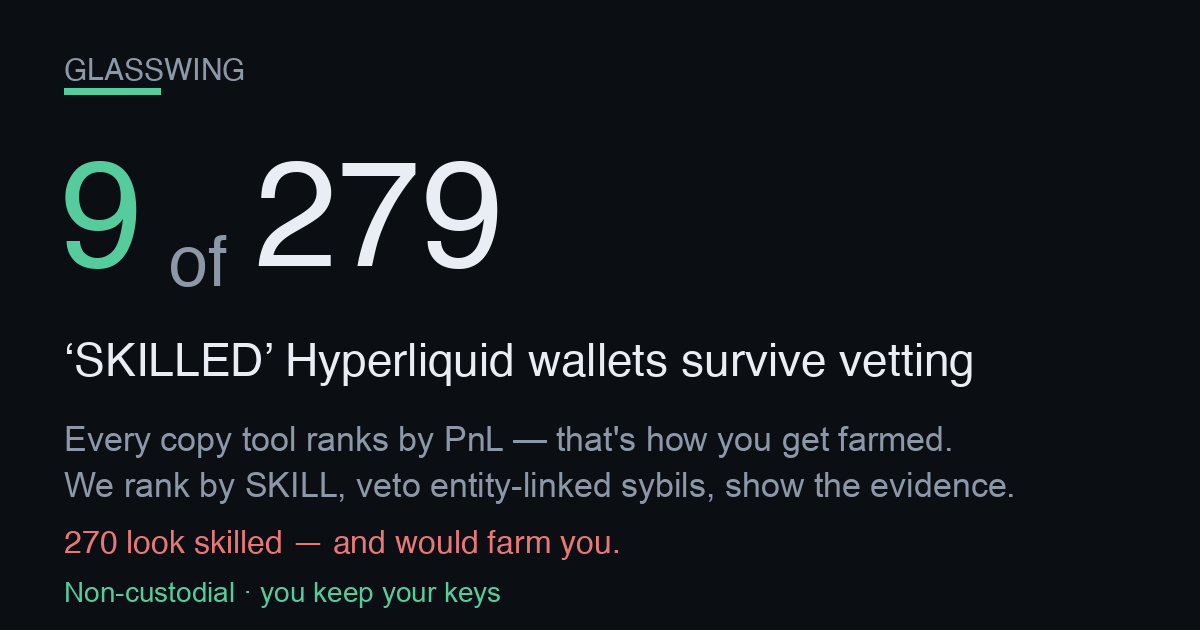
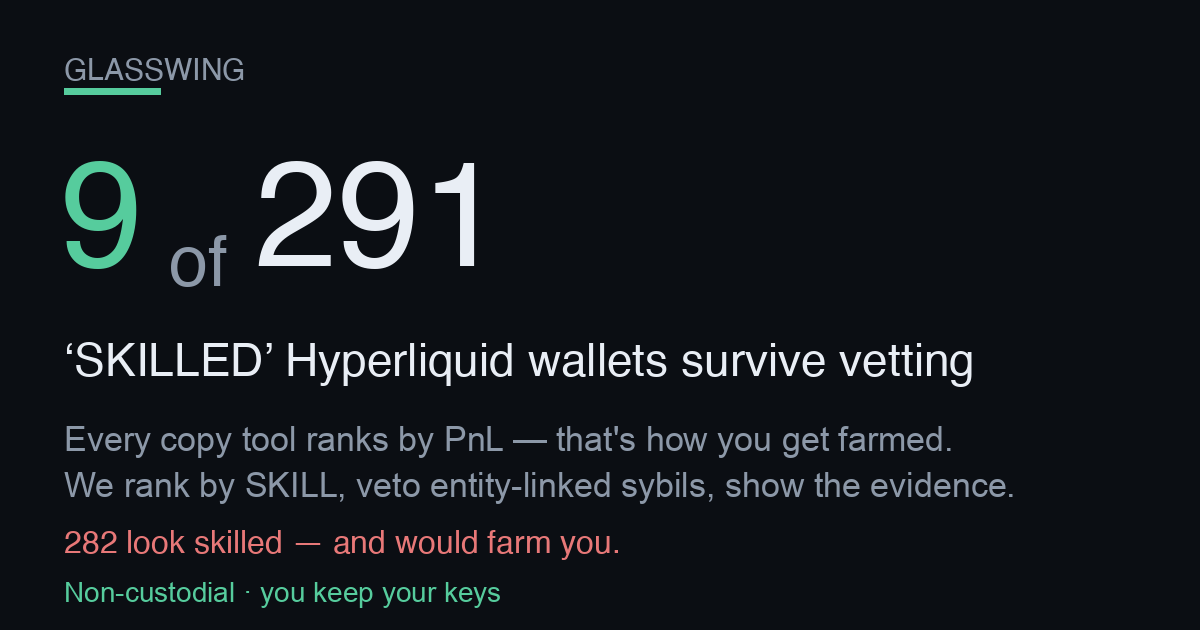
publish funnel 2026-08-25T18:08:58Z

Changed region(s): [[0.2775, 0.2413, 0.4317, 0.4524], [0.0617, 0.8444, 0.0925, 0.8746]]

diff --git a/screener.html b/screener.html
@@ -57,4 +57,4 @@ padding:11px 22px;font-size:15px;font-weight:800;border:1px solid var(--good)}
 footer{margin-top:34px;color:var(--muted);font-size:12px;line-height:1.6;
 border-top:1px solid var(--line);padding-top:16px}
 footer b{color:var(--ink)}
-</style></head><body><div class="wrap"><div class="nav"><a href="./index.html">&larr; Glasswing home</a><span class="sep">|</span><span>Edge Screener</span><span class="sep">|</span><a href="./dex.html">Copy a vetted leader</a></div><div class="hero"><h1>Hyperliquid Edge Screener</h1><div class="sub">Where&rsquo;s the carry, where a maker earns, and what&rsquo;s moving on Hyperliquid &mdash; live, computed from the public API. Bookmark it. Every number below is real and timestamped.</div><div class="stamp">Data as of <b>2026-08-23T22:45:18Z</b> &middot; rendered 2026-08-23T22:45:18Z &middot; 177 perps &middot; 101 HIP-3 (xyz) markets scanned</div></div><h2>Top funding &mdash; the carry table <span class="hint">perps ranked by annualized funding. Positive = longs pay shorts (a delta-neutral short earns it).</span></h2><div class="tblwrap"><table><thead><tr><th>Coin</th><th>Funding / hr</th><th>Annualized</th><th>Who pays</th><th>Open interest</th><th>24h volume</th></tr></thead><tbody><tr><td class="coin">ACE</td><td>-0.1377%</td><td class="neg">-1206.6%</td><td><span class="tag shorts">shorts pay</span></td><td>$1.9M</td><td>$1.8M</td></tr><tr><td class="coin">CASHCAT</td><td>+0.0459%</td><td class="pos">+402.1%</td><td><span class="tag longs">longs pay</span></td><td>$18.7M</td><td>$10.9M</td></tr><tr><td class="coin">MOVE<span class="tag thin" title="Low liquidity/OI &mdash; ADL &amp; liquidation risk; funding can flip">&#9888; thin</span></td><td>-0.0426%</td><td class="neg">-372.9%</td><td><span class="tag shorts">shorts pay</span></td><td>$295K</td><td>$848K</td></tr><tr><td class="coin">APEX</td><td>+0.0379%</td><td class="pos">+332.3%</td><td><span class="tag longs">longs pay</span></td><td>$2.6M</td><td>$1.2M</td></tr><tr><td class="coin">PEOPLE</td><td>+0.0295%</td><td class="pos">+258.5%</td><td><span class="tag longs">longs pay</span></td><td>$4.1M</td><td>$337K</td></tr><tr><td class="coin">VINE<span class="tag thin" title="Low liquidity/OI &mdash; ADL &amp; liquidation risk; funding can flip">&#9888; thin</span></td><td>+0.0192%</td><td class="pos">+167.8%</td><td><span class="tag longs">longs pay</span></td><td>$322K</td><td>$61K</td></tr><tr><td class="coin">VVV</td><td>+0.0184%</td><td class="pos">+161.5%</td><td><span class="tag longs">longs pay</span></td><td>$27.9M</td><td>$11.6M</td></tr><tr><td class="coin">CFX</td><td>+0.0153%</td><td class="pos">+134.0%</td><td><span class="tag longs">longs pay</span></td><td>$2.4M</td><td>$459K</td></tr><tr><td class="coin">PUMP</td><td>+0.0141%</td><td class="pos">+123.4%</td><td><span class="tag longs">longs pay</span></td><td>$206.3M</td><td>$222.6M</td></tr><tr><td class="coin">GRASS</td><td>+0.0136%</td><td class="pos">+119.0%</td><td><span class="tag longs">longs pay</span></td><td>$10.0M</td><td>$3.3M</td></tr><tr><td class="coin">kLUNC<span class="tag thin" title="Low liquidity/OI &mdash; ADL &amp; liquidation risk; funding can flip">&#9888; thin</span></td><td>+0.0134%</td><td class="pos">+117.1%</td><td><span class="tag longs">longs pay</span></td><td>$391K</td><td>$161K</td></tr><tr><td class="coin">PNUT</td><td>+0.0132%</td><td class="pos">+115.9%</td><td><span class="tag longs">longs pay</span></td><td>$1.0M</td><td>$400K</td></tr></tbody></table></div><h2>Widest HIP-3 spreads &mdash; where a maker earns <span class="hint">xyz: markets by impact-price spread vs the ~0.6bps round-trip fee. A resting limit order captures the gap.</span></h2><div class="tblwrap"><table><thead><tr><th>Market</th><th>Spread</th><th>vs 0.6bps fee</th><th>Mid</th><th>24h volume</th></tr></thead><tbody><tr><td class="coin">xyz:NCLD<span class="tag gm">growth</span></td><td>264.3 bps</td><td class="pos">+263.7 bps</td><td>23.8970</td><td>$151K</td></tr><tr><td class="coin">xyz:MAGS<span class="tag gm">growth</span></td><td>191.3 bps</td><td class="pos">+190.7 bps</td><td>67.0020</td><td>$35K</td></tr><tr><td class="coin">xyz:BIRD<span class="tag gm">growth</span></td><td>189.6 bps</td><td class="pos">+189.0 bps</td><td>2.3904</td><td>$14K</td></tr><tr><td class="coin">xyz:GIGADEV<span class="tag gm">growth</span></td><td>136.9 bps</td><td class="pos">+136.3 bps</td><td>61.6215</td><td>$31K</td></tr><tr><td class="coin">xyz:NET<span class="tag gm">growth</span></td><td>123.2 bps</td><td class="pos">+122.6 bps</td><td>295.8800</td><td>$7K</td></tr><tr><td class="coin">xyz:RDDT<span class="tag gm">growth</span></td><td>119.5 bps</td><td class="pos">+118.9 bps</td><td>153.5450</td><td>$14K</td></tr><tr><td class="coin">xyz:IREN<span class="tag gm">growth</span></td><td>97.2 bps</td><td class="pos">+96.6 bps</td><td>41.3940</td><td>$99K</td></tr><tr><td class="coin">xyz:URNM<span class="tag gm">growth</span></td><td>89.5 bps</td><td class="pos">+88.9 bps</td><td>59.6840</td><td>$39K</td></tr><tr><td class="coin">xyz:GEV<span class="tag gm">growth</span></td><td>77.4 bps</td><td class="pos">+76.8 bps</td><td>963.5850</td><td>$18K</td></tr><tr><td class="coin">xyz:GME<span class="tag gm">growth</span></td><td>76.9 bps</td><td class="pos">+76.3 bps</td><td>18.3790</td><td>$49K</td></tr><tr><td class="coin">xyz:LYTE<span class="tag gm">growth</span></td><td>74.6 bps</td><td class="pos">+74.0 bps</td><td>24.7440</td><td>$264K</td></tr><tr><td class="coin">xyz:ZM<span class="tag gm">growth</span></td><td>68.9 bps</td><td class="pos">+68.3 bps</td><td>109.1200</td><td>$27K</td></tr></tbody></table></div><h2>Momentum &amp; volume &mdash; what&rsquo;s moving <span class="hint">perps by 24h volume with the 24h price change (mark vs prior-day).</span></h2><div class="tblwrap"><table><thead><tr><th>Coin</th><th>24h volume</th><th>24h change</th><th>Mark</th></tr></thead><tbody><tr><td class="coin">BTC</td><td>$2.40B</td><td class="pos">+0.76%</td><td>77,700.00</td></tr><tr><td class="coin">ETH</td><td>$1.57B</td><td class="pos">+1.85%</td><td>2,459.70</td></tr><tr><td class="coin">HYPE</td><td>$722.8M</td><td class="pos">+4.68%</td><td>82.8530</td></tr><tr><td class="coin">ZEC</td><td>$431.1M</td><td class="pos">+6.81%</td><td>856.3400</td></tr><tr><td class="coin">XRP</td><td>$370.7M</td><td class="pos">+3.41%</td><td>1.5191</td></tr><tr><td class="coin">SOL</td><td>$338.6M</td><td class="pos">+1.89%</td><td>95.5820</td></tr><tr><td class="coin">PUMP</td><td>$222.6M</td><td class="pos">+6.47%</td><td>0.005368</td></tr><tr><td class="coin">ENA</td><td>$81.7M</td><td class="pos">+2.53%</td><td>0.1635</td></tr><tr><td class="coin">TRUMP</td><td>$77.7M</td><td class="pos">+15.52%</td><td>2.6946</td></tr><tr><td class="coin">LIT</td><td>$55.3M</td><td class="pos">+8.02%</td><td>3.4273</td></tr><tr><td class="coin">NEAR</td><td>$54.6M</td><td class="pos">+4.47%</td><td>2.0057</td></tr><tr><td class="coin">FARTCOIN</td><td>$45.0M</td><td class="neg">-1.01%</td><td>0.18018</td></tr></tbody></table></div><div class="cta"><h2>These are the opportunities. Now copy the people who trade them.</h2><p class="lead">Spotting the carry and the spreads is the easy part &mdash; sizing, timing and risk are where most traders bleed. Copy the <b>skill-vetted</b> Hyperliquid leaders who actually trade these edges. Non-custodial: <b>you keep your keys and your funds</b> the entire time.</p><div class="row"><a class="btn" href="./index.html">See the vetted leaders &rarr;</a><a class="btn ghost" href="./dex.html">Start copying (non-custodial) &rarr;</a></div><div class="nc"><b>Non-custodial &amp; honest:</b> we never hold your keys or funds. Copying routes through a <b>0.01%</b> (1bp) on-chain builder fee &mdash; that is the only thing we ever charge, and it is the same fee shown on the copy page. Nothing on this screener is executed for you; it is information only.</div></div><footer><b>Not financial advice.</b> Funding rates, spreads and volumes are live snapshots that change every block; figures can be stale by the time you act. A high funding rate is <b>not free money</b> &mdash; the biggest rates sit on the thinnest, most crowded books (flagged &#9888; thin), where funding can flip against you and auto-deleveraging (ADL) or liquidation can close your position. &ldquo;Spread&rdquo; here is the impact-price spread (a conservative maker signal), not a guaranteed fill. HIP-3 markets are experimental. Do your own research and size responsibly. Glasswing is <b>non-custodial</b> &mdash; we never take custody of your keys or funds.</footer></div></body></html>
+</style></head><body><div class="wrap"><div class="nav"><a href="./index.html">&larr; Glasswing home</a><span class="sep">|</span><span>Edge Screener</span><span class="sep">|</span><a href="./dex.html">Copy a vetted leader</a></div><div class="hero"><h1>Hyperliquid Edge Screener</h1><div class="sub">Where&rsquo;s the carry, where a maker earns, and what&rsquo;s moving on Hyperliquid &mdash; live, computed from the public API. Bookmark it. Every number below is real and timestamped.</div><div class="stamp">Data as of <b>2026-08-25T18:06:02Z</b> &middot; rendered 2026-08-25T18:06:02Z &middot; 177 perps &middot; 101 HIP-3 (xyz) markets scanned</div></div><h2>Top funding &mdash; the carry table <span class="hint">perps ranked by annualized funding. Positive = longs pay shorts (a delta-neutral short earns it).</span></h2><div class="tblwrap"><table><thead><tr><th>Coin</th><th>Funding / hr</th><th>Annualized</th><th>Who pays</th><th>Open interest</th><th>24h volume</th></tr></thead><tbody><tr><td class="coin">VINE<span class="tag thin" title="Low liquidity/OI &mdash; ADL &amp; liquidation risk; funding can flip">&#9888; thin</span></td><td>+0.0872%</td><td class="pos">+763.7%</td><td><span class="tag longs">longs pay</span></td><td>$244K</td><td>$25K</td></tr><tr><td class="coin">ACE</td><td>-0.0236%</td><td class="neg">-206.9%</td><td><span class="tag shorts">shorts pay</span></td><td>$1.6M</td><td>$2.0M</td></tr><tr><td class="coin">STX</td><td>-0.0155%</td><td class="neg">-135.4%</td><td><span class="tag shorts">shorts pay</span></td><td>$1.1M</td><td>$3.4M</td></tr><tr><td class="coin">TRUMP</td><td>-0.0086%</td><td class="neg">-75.0%</td><td><span class="tag shorts">shorts pay</span></td><td>$16.9M</td><td>$27.5M</td></tr><tr><td class="coin">IMX<span class="tag thin" title="Low liquidity/OI &mdash; ADL &amp; liquidation risk; funding can flip">&#9888; thin</span></td><td>+0.0078%</td><td class="pos">+68.0%</td><td><span class="tag longs">longs pay</span></td><td>$2.8M</td><td>$238K</td></tr><tr><td class="coin">ZETA</td><td>-0.0058%</td><td class="neg">-50.8%</td><td><span class="tag shorts">shorts pay</span></td><td>$1.1M</td><td>$430K</td></tr><tr><td class="coin">DOT</td><td>-0.0041%</td><td class="neg">-35.7%</td><td><span class="tag shorts">shorts pay</span></td><td>$5.5M</td><td>$1.8M</td></tr><tr><td class="coin">GMX<span class="tag thin" title="Low liquidity/OI &mdash; ADL &amp; liquidation risk; funding can flip">&#9888; thin</span></td><td>+0.0033%</td><td class="pos">+28.6%</td><td><span class="tag longs">longs pay</span></td><td>$663K</td><td>$193K</td></tr><tr><td class="coin">BLUR</td><td>+0.0032%</td><td class="pos">+28.5%</td><td><span class="tag longs">longs pay</span></td><td>$1.8M</td><td>$318K</td></tr><tr><td class="coin">GRAM</td><td>+0.0028%</td><td class="pos">+24.2%</td><td><span class="tag longs">longs pay</span></td><td>$26.7M</td><td>$3.9M</td></tr><tr><td class="coin">SEI</td><td>-0.0027%</td><td class="neg">-23.9%</td><td><span class="tag shorts">shorts pay</span></td><td>$1.8M</td><td>$1.1M</td></tr><tr><td class="coin">MORPHO</td><td>+0.0019%</td><td class="pos">+16.9%</td><td><span class="tag longs">longs pay</span></td><td>$5.7M</td><td>$2.4M</td></tr></tbody></table></div><h2>Widest HIP-3 spreads &mdash; where a maker earns <span class="hint">xyz: markets by impact-price spread vs the ~0.6bps round-trip fee. A resting limit order captures the gap.</span></h2><div class="tblwrap"><table><thead><tr><th>Market</th><th>Spread</th><th>vs 0.6bps fee</th><th>Mid</th><th>24h volume</th></tr></thead><tbody><tr><td class="coin">xyz:BIRD<span class="tag gm">growth</span></td><td>135.6 bps</td><td class="pos">+135.0 bps</td><td>2.4171</td><td>$119K</td></tr><tr><td class="coin">xyz:SOFTBANK<span class="tag gm">growth</span></td><td>112.5 bps</td><td class="pos">+111.9 bps</td><td>32.0790</td><td>$314K</td></tr><tr><td class="coin">xyz:GIGADEV<span class="tag gm">growth</span></td><td>109.2 bps</td><td class="pos">+108.6 bps</td><td>58.8020</td><td>$428K</td></tr><tr><td class="coin">xyz:KR200<span class="tag gm">growth</span></td><td>44.2 bps</td><td class="pos">+43.6 bps</td><td>1,064.10</td><td>$785K</td></tr><tr><td class="coin">xyz:KIOXIA<span class="tag gm">growth</span></td><td>40.1 bps</td><td class="pos">+39.5 bps</td><td>319.3500</td><td>$3.7M</td></tr><tr><td class="coin">xyz:PURRDAT</td><td>32.4 bps</td><td class="pos">+31.8 bps</td><td>11.5025</td><td>$11.4M</td></tr><tr><td class="coin">xyz:RDDT<span class="tag gm">growth</span></td><td>30.7 bps</td><td class="pos">+30.1 bps</td><td>159.9450</td><td>$48K</td></tr><tr><td class="coin">xyz:NET<span class="tag gm">growth</span></td><td>28.8 bps</td><td class="pos">+28.2 bps</td><td>273.9950</td><td>$293K</td></tr><tr><td class="coin">xyz:GEV<span class="tag gm">growth</span></td><td>28.8 bps</td><td class="pos">+28.2 bps</td><td>931.4600</td><td>$245K</td></tr><tr><td class="coin">xyz:MAGS<span class="tag gm">growth</span></td><td>28.1 bps</td><td class="pos">+27.5 bps</td><td>67.6430</td><td>$63K</td></tr><tr><td class="coin">xyz:ZHIPU<span class="tag gm">growth</span></td><td>25.9 bps</td><td class="pos">+25.3 bps</td><td>135.5350</td><td>$4.6M</td></tr><tr><td class="coin">xyz:SHAZ<span class="tag gm">growth</span></td><td>25.7 bps</td><td class="pos">+25.1 bps</td><td>60.5025</td><td>$300K</td></tr></tbody></table></div><h2>Momentum &amp; volume &mdash; what&rsquo;s moving <span class="hint">perps by 24h volume with the 24h price change (mark vs prior-day).</span></h2><div class="tblwrap"><table><thead><tr><th>Coin</th><th>24h volume</th><th>24h change</th><th>Mark</th></tr></thead><tbody><tr><td class="coin">BTC</td><td>$4.99B</td><td class="pos">+0.28%</td><td>79,242.00</td></tr><tr><td class="coin">ETH</td><td>$1.67B</td><td class="neg">-0.43%</td><td>2,471.00</td></tr><tr><td class="coin">HYPE</td><td>$753.5M</td><td class="pos">+5.31%</td><td>81.8800</td></tr><tr><td class="coin">SOL</td><td>$721.1M</td><td class="pos">+2.33%</td><td>98.2270</td></tr><tr><td class="coin">ZEC</td><td>$404.1M</td><td class="neg">-3.05%</td><td>797.4000</td></tr><tr><td class="coin">XRP</td><td>$217.4M</td><td class="neg">-0.65%</td><td>1.4779</td></tr><tr><td class="coin">PUMP</td><td>$142.1M</td><td class="neg">-5.73%</td><td>0.004504</td></tr><tr><td class="coin">AAVE</td><td>$51.0M</td><td class="neg">-4.75%</td><td>128.0200</td></tr><tr><td class="coin">LIT</td><td>$47.4M</td><td class="pos">+3.27%</td><td>3.4116</td></tr><tr><td class="coin">CASHCAT</td><td>$45.5M</td><td class="pos">+10.98%</td><td>0.20079</td></tr><tr><td class="coin">NEAR</td><td>$32.4M</td><td class="neg">-3.73%</td><td>1.8963</td></tr><tr><td class="coin">ZRO</td><td>$32.3M</td><td class="pos">+13.37%</td><td>1.2500</td></tr></tbody></table></div><div class="cta"><h2>These are the opportunities. Now copy the people who trade them.</h2><p class="lead">Spotting the carry and the spreads is the easy part &mdash; sizing, timing and risk are where most traders bleed. Copy the <b>skill-vetted</b> Hyperliquid leaders who actually trade these edges. Non-custodial: <b>you keep your keys and your funds</b> the entire time.</p><div class="row"><a class="btn" href="./index.html">See the vetted leaders &rarr;</a><a class="btn ghost" href="./dex.html">Start copying (non-custodial) &rarr;</a></div><div class="nc"><b>Non-custodial &amp; honest:</b> we never hold your keys or funds. Copying routes through a <b>0.01%</b> (1bp) on-chain builder fee &mdash; that is the only thing we ever charge, and it is the same fee shown on the copy page. Nothing on this screener is executed for you; it is information only.</div></div><footer><b>Not financial advice.</b> Funding rates, spreads and volumes are live snapshots that change every block; figures can be stale by the time you act. A high funding rate is <b>not free money</b> &mdash; the biggest rates sit on the thinnest, most crowded books (flagged &#9888; thin), where funding can flip against you and auto-deleveraging (ADL) or liquidation can close your position. &ldquo;Spread&rdquo; here is the impact-price spread (a conservative maker signal), not a guaranteed fill. HIP-3 markets are experimental. Do your own research and size responsibly. Glasswing is <b>non-custodial</b> &mdash; we never take custody of your keys or funds.</footer></div></body></html>

diff --git a/track.html b/track.html
@@ -62,35 +62,35 @@ font-weight:600;font-size:14px}
 <div class="wrap">
   <div class="hero">
     <h1>Self-verifying on-chain track record</h1>
-    <div class="big">$216.83</div>
+    <div class="big">$218.06</div>
     <div class="sub">current on-chain equity (perp + vault + spot USDC)</div>
     <div class="addr">0xbe6C1b09662BbE52CC93279D103Feb27985DdBc1</div>
-    <div class="stage building">36 days live — BUILDING</div>
+    <div class="stage building">38 days live — BUILDING</div>
   </div>
 
   
 
   <h2>On-chain figures <span style="color:var(--muted);font-weight:400;font-size:13px">
   &mdash; every one reproducible from the public info API</span></h2>
-  <table><tbody><tr><td class="k">On-chain equity (perp + vault + spot USDC)</td><td class="v">$216.83</td></tr><tr><td class="k">Perp account value</td><td class="v">$129.54</td></tr><tr><td class="k">Vault equity</td><td class="v">$42.78</td></tr><tr><td class="k">Spot USDC</td><td class="v">$44.51</td></tr><tr><td class="k">Withdrawable</td><td class="v">$42.74</td></tr></tbody></table>
+  <table><tbody><tr><td class="k">On-chain equity (perp + vault + spot USDC)</td><td class="v">$218.06</td></tr><tr><td class="k">Perp account value</td><td class="v">$127.99</td></tr><tr><td class="k">Vault equity</td><td class="v">$45.56</td></tr><tr><td class="k">Spot USDC</td><td class="v">$44.51</td></tr><tr><td class="k">Withdrawable</td><td class="v">$40.05</td></tr></tbody></table>
 
-  <h2>Vault deposits (on-chain)</h2><table><thead><tr><th>Vault address</th><th>Our equity</th></tr></thead><tbody><tr><td class="mono">0x2431edfcb662e6ff6deab113cc91878a0b53fb0f</td><td class="v">$0.01</td></tr><tr><td class="mono">0x697bc3dd77539fa84156d0e1c95287ea5524fd6b</td><td class="v">$15.03</td></tr><tr><td class="mono">0x8825e6ed11c7f9c0874579c9f4bba192b9e81c8f</td><td class="v">$0.13</td></tr><tr><td class="mono">0xc71f5a493b937e4b1798b86510630336a6dfd804</td><td class="v">$27.61</td></tr></tbody></table>
+  <h2>Vault deposits (on-chain)</h2><table><thead><tr><th>Vault address</th><th>Our equity</th></tr></thead><tbody><tr><td class="mono">0x2431edfcb662e6ff6deab113cc91878a0b53fb0f</td><td class="v">$0.01</td></tr><tr><td class="mono">0x697bc3dd77539fa84156d0e1c95287ea5524fd6b</td><td class="v">$17.63</td></tr><tr><td class="mono">0x8825e6ed11c7f9c0874579c9f4bba192b9e81c8f</td><td class="v">$0.13</td></tr><tr><td class="mono">0xc71f5a493b937e4b1798b86510630336a6dfd804</td><td class="v">$27.79</td></tr></tbody></table>
 
   <h2>Performance <span style="color:var(--muted);font-weight:400;font-size:13px">
   &mdash; honest stage, no annualization</span></h2>
-  <table><tbody><tr><td class="k">Days live (our formal record)</td><td class="v">36</td></tr><tr><td class="k">Maturity</td><td class="v">BUILDING</td></tr><tr><td class="k">Current real strategy income / day</td><td class="v">$0.3140</td></tr><tr><td class="k">Cumulative net income (if attributed)</td><td class="v">$36.4199</td></tr><tr><td class="k">Annualized APR</td><td class="v">shown per-day above</td></tr></tbody></table>
+  <table><tbody><tr><td class="k">Days live (our formal record)</td><td class="v">38</td></tr><tr><td class="k">Maturity</td><td class="v">BUILDING</td></tr><tr><td class="k">Current real strategy income / day</td><td class="v">$0.1360</td></tr><tr><td class="k">Cumulative net income (if attributed)</td><td class="v">$36.5138</td></tr><tr><td class="k">Annualized APR</td><td class="v">shown per-day above</td></tr></tbody></table>
 
   <h2>Strategy arms <span style="color:var(--muted);font-weight:400;font-size:13px">
   &mdash; internal marks, cross-checkable against chain equity</span></h2>
-  <table><thead><tr><th>Arm</th><th>Status</th><th>Real / day</th><th>Note</th></tr></thead><tbody><tr><td class="v">carry</td><td><span class="badge live">live</span></td><td class="v">$0.3140</td><td class="k"></td></tr><tr><td class="v">copy</td><td><span class="badge live">live</span></td><td class="v">$0.0000</td><td class="k"></td></tr><tr><td class="v">builder</td><td><span class="badge off">—</span></td><td class="v">$0.0000</td><td class="k">proven live; $0 until distributed (∝ users&#x27; volume)</td></tr></tbody></table>
+  <table><thead><tr><th>Arm</th><th>Status</th><th>Real / day</th><th>Note</th></tr></thead><tbody><tr><td class="v">carry</td><td><span class="badge live">live</span></td><td class="v">$0.1360</td><td class="k"></td></tr><tr><td class="v">copy</td><td><span class="badge live">live</span></td><td class="v">$0.0000</td><td class="k"></td></tr><tr><td class="v">builder</td><td><span class="badge off">—</span></td><td class="v">$0.0000</td><td class="k">proven live; $0 until distributed (∝ users&#x27; volume)</td></tr></tbody></table>
 
   <h2>Reproduce it</h2>
   <div class="verify"><h3>Verify this yourself</h3><p>These are PUBLIC calls. Run them yourself against the address below and you will re-derive every on-chain figure on this page. equity_usd = perp accountValue + vault equity + spot USDC. Endpoint: https://api.hyperliquid.xyz/info</p><div class="cn">clearinghouseState &rarr; marginSummary.accountValue (perp value), withdrawable, marginSummary.totalMarginUsed</div><pre>curl -s -X POST https://api.hyperliquid.xyz/info -H &#x27;Content-Type: application/json&#x27; -d &#x27;{&quot;type&quot;: &quot;clearinghouseState&quot;, &quot;user&quot;: &quot;0xbe6C1b09662BbE52CC93279D103Feb27985DdBc1&quot;}&#x27;</pre><div class="cn">userVaultEquities &rarr; sum of each entry&#x27;s equity (our vault deposits)</div><pre>curl -s -X POST https://api.hyperliquid.xyz/info -H &#x27;Content-Type: application/json&#x27; -d &#x27;{&quot;type&quot;: &quot;userVaultEquities&quot;, &quot;user&quot;: &quot;0xbe6C1b09662BbE52CC93279D103Feb27985DdBc1&quot;}&#x27;</pre><div class="cn">spotClearinghouseState &rarr; balances[] where coin==USDC -&gt; total (spot USDC)</div><pre>curl -s -X POST https://api.hyperliquid.xyz/info -H &#x27;Content-Type: application/json&#x27; -d &#x27;{&quot;type&quot;: &quot;spotClearinghouseState&quot;, &quot;user&quot;: &quot;0xbe6C1b09662BbE52CC93279D103Feb27985DdBc1&quot;}&#x27;</pre></div>
 
   <footer>
     <div>Self-verifying: every on-chain figure is reproducible by querying Hyperliquid&#x27;s public info API for the stated address. Internal daily marks are cross-checkable against on-chain equity. EARLY-STAGE record — not a mature track record, not an APR promise, not financial advice. Past performance != future results.</div>
-    <div class="stamp">Generated at 2026-08-23T22:43:10Z &middot; internal marks
-    mtime 2026-08-23T22:20:27Z &middot; static receipt, no live
+    <div class="stamp">Generated at 2026-08-25T18:05:24Z &middot; internal marks
+    mtime 2026-08-25T16:23:30Z &middot; static receipt, no live
     authority — this page never trades or arms.</div>
   </footer>
 </div>

diff --git a/index.html b/index.html
@@ -3,8 +3,8 @@
 <head>
 <meta charset="utf-8">
 <meta name="viewport" content="width=device-width, initial-scale=1">
-<title>9 of 279 SKILLED Hyperliquid wallets survive vetting</title>
-<meta name="description" content="9 of 279 leaderboard-SKILLED Hyperliquid wallets survive vetting. Copy only the survivors, non-custodial — you keep your keys and funds.">
+<title>9 of 291 SKILLED Hyperliquid wallets survive vetting</title>
+<meta name="description" content="9 of 291 leaderboard-SKILLED Hyperliquid wallets survive vetting. Copy only the survivors, non-custodial — you keep your keys and funds.">
 <link rel="canonical" href="https://dynobit.github.io/glasswing/">
 <meta name="robots" content="index,follow">
 <meta name="theme-color" content="#0b0e13">
@@ -14,14 +14,14 @@
      head, not this. og:url is the canonical Pages home so every share resolves here. -->
 <meta property="og:type" content="website">
 <meta property="og:site_name" content="Glasswing">
-<meta property="og:title" content="9 of 279 SKILLED Hyperliquid wallets survive vetting">
+<meta property="og:title" content="9 of 291 SKILLED Hyperliquid wallets survive vetting">
 <meta property="og:description" content="Every copy tool ranks leaders by PnL — which is how you get farmed. This ranks by SKILL, then vetoes entity-linked sybils, and shows the evidence for every reject. Non-custodial: you keep your keys.">
 <meta property="og:url" content="https://dynobit.github.io/glasswing/">
 <meta property="og:image" content="https://dynobit.github.io/glasswing/og-card.png">
 <meta property="og:image:width" content="1200">
 <meta property="og:image:height" content="630">
 <meta name="twitter:card" content="summary_large_image">
-<meta name="twitter:title" content="9 of 279 SKILLED Hyperliquid wallets survive vetting">
+<meta name="twitter:title" content="9 of 291 SKILLED Hyperliquid wallets survive vetting">
 <meta name="twitter:description" content="Skill-ranked (not PnL-ranked) HL copy-leaders, entity-linked sybils vetoed with evidence. Non-custodial.">
 <meta name="twitter:image" content="https://dynobit.github.io/glasswing/og-card.png">
 <style>
@@ -135,18 +135,18 @@ footer .nc{color:var(--good);font-weight:600}
 
   <!-- 1. HERO — the shareable hook (screenshot-worthy) -->
   <div class="hero">
-    <h1><span class="big">9 of 279</span> &lsquo;SKILLED&rsquo;
+    <h1><span class="big">9 of 291</span> &lsquo;SKILLED&rsquo;
     Hyperliquid wallets survive vetting</h1>
-    <div class="sub">The other <span class="trap">270</span> look skilled on a
+    <div class="sub">The other <span class="trap">282</span> look skilled on a
     raw copy leaderboard but would farm you &mdash; here are the
-    <span class="trap">270</span> that would. Entity-linked sybils,
-    wash-traded track records, or simply unscreened. 3.2% survive.
-    Universe: 2464 scored wallets.</div>
+    <span class="trap">282</span> that would. Entity-linked sybils,
+    wash-traded track records, or simply unscreened. 3.1% survive.
+    Universe: 2591 scored wallets.</div>
   </div>
 
   <!-- 2. THE WEDGE — the marketing (why us, not any other copy tool) -->
   <div class="wedge"><span class="them">Every other copy tool ranks all
-    279 by PnL and calls it a leaderboard.</span> We are the only one that
+    291 by PnL and calls it a leaderboard.</span> We are the only one that
     <b>flags the entity-linked and farming wallets with on-chain evidence</b> &mdash;
     transfer-graph linkage between wallets and arXiv memecoin farm-features &mdash;
     and shows you only the 9 that survive. A high PnL is exactly what a
@@ -268,7 +268,7 @@ footer .nc{color:var(--good);font-weight:600}
   <footer>
     <div class="nc">Non-custodial: we never hold your keys or funds. No server, no backend. Your browser talks only to Hyperliquid&#x27;s public API.</div>
     <div>Advisory. Skill = sign-randomization null vs luck. Entity veto = public transfer-graph linkage. Farm screen = arXiv:2601.08641 features (memecoin thresholds, HL-uncalibrated). Follower-realizable PnL is NOT yet proven — a PRE-COMMITTED forward test is in progress (0/2 windows, earliest 2026-08-13); the copyability claim publishes only when the pre-registered windows close, so it cannot be discovery-mined. Exit-alpha shown is advisory. Not financial advice.</div>
-    <div class="stamp">Generated at 2026-08-23T22:44:12Z &middot; single-file funnel,
+    <div class="stamp">Generated at 2026-08-25T18:05:36Z &middot; single-file funnel,
     no live authority. In-browser order signing is IMPLEMENTED (real secp256k1 +
     keccak + msgpack EIP-712 from a pinned CDN) but UNVALIDATED against Hyperliquid:
     mainnet is blocked until a testnet order is proven accepted.</div>

diff --git a/dex.html b/dex.html
@@ -112,8 +112,8 @@ footer .nc{color:var(--good);font-weight:600}
     funds and your keys the whole time. Two signatures in your own wallet, an
     ephemeral in-browser agent key that can trade but never withdraw, and a
     client-side loop that mirrors only the
-    <b>9 of 279</b> vetted survivors
-    (universe: 2464 scored wallets). No server, no backend.</div>
+    <b>9 of 291</b> vetted survivors
+    (universe: 2591 scored wallets). No server, no backend.</div>
     <div class="tag">static bundle &middot; IPFS-publishable &middot; revenue accrues on-chain</div>
   </div>
 
@@ -217,7 +217,7 @@ footer .nc{color:var(--good);font-weight:600}
   <footer>
     <div class="nc">Pure DEX, self-custodial. No server, no backend, no key we ever hold. Your browser talks only to Hyperliquid&#x27;s public API.</div>
     <div>Advisory. Skill = sign-randomization null vs luck. Entity veto = public transfer-graph linkage. Farm screen = arXiv:2601.08641 features (memecoin thresholds, HL-uncalibrated). Follower-realizable PnL is NOT yet proven — a PRE-COMMITTED forward test is in progress (0/2 windows, earliest 2026-08-13); the copyability claim publishes only when the pre-registered windows close, so it cannot be discovery-mined. Exit-alpha shown is advisory. Not financial advice.</div>
-    <div class="stamp">Generated at 2026-08-23T22:44:12Z &middot; static,
+    <div class="stamp">Generated at 2026-08-25T18:05:36Z &middot; static,
     self-custodial surface, no live authority. In-browser order signing is
     IMPLEMENTED (real secp256k1 + keccak + msgpack EIP-712 from a pinned CDN) but
     UNVALIDATED against Hyperliquid: mainnet is blocked until a testnet order is
